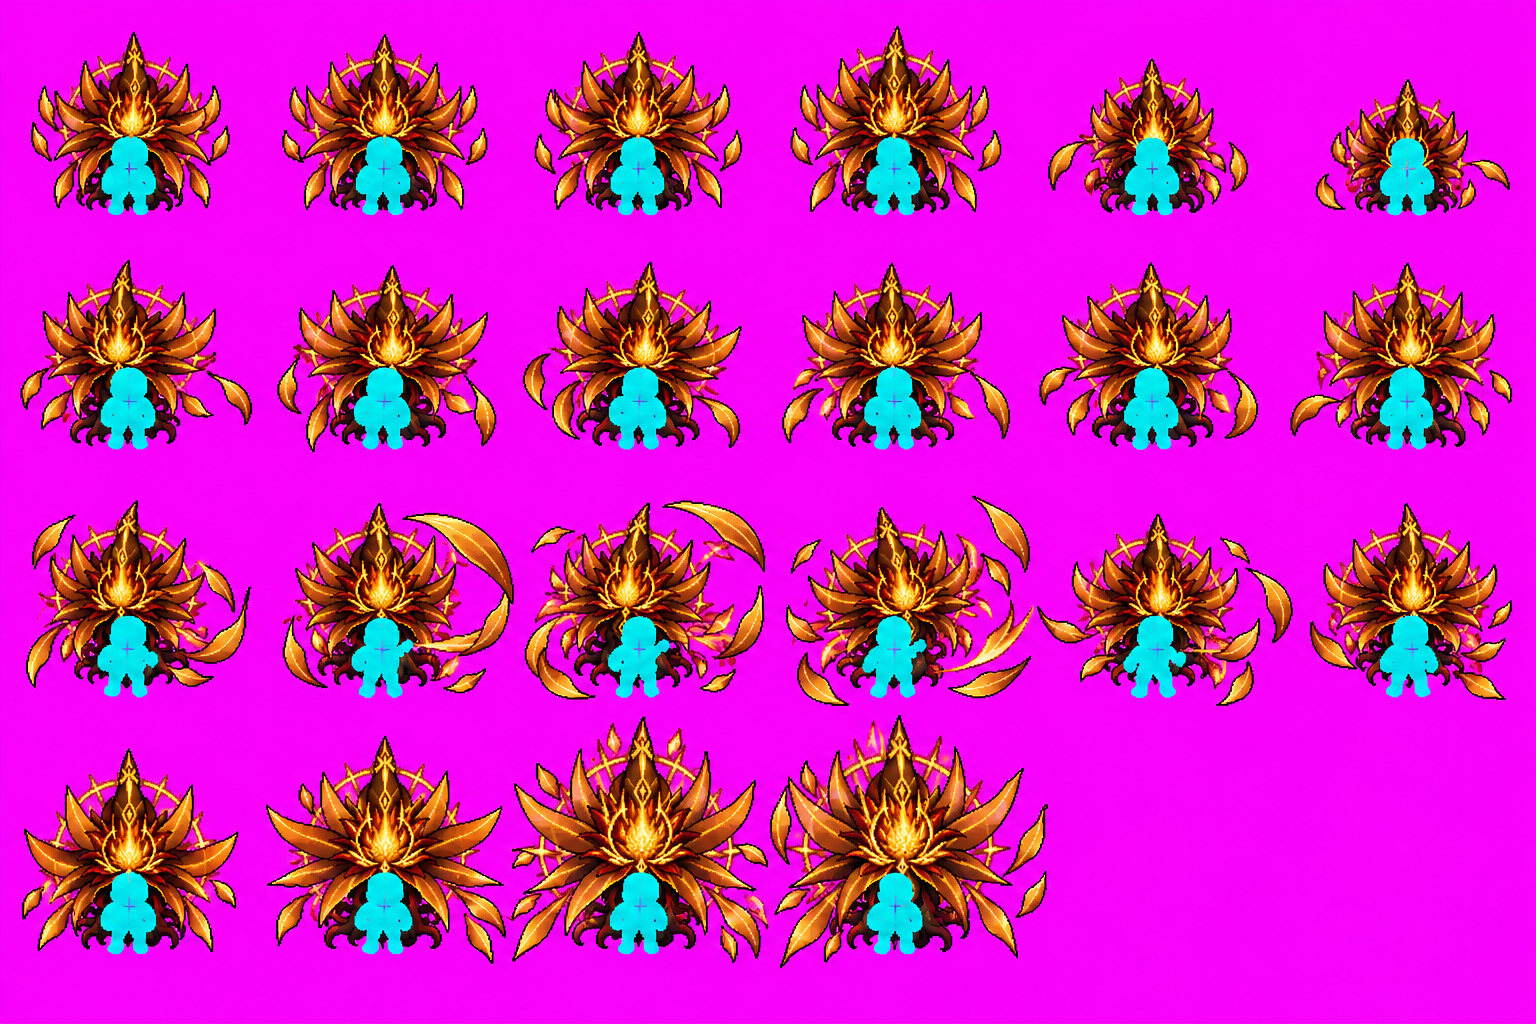
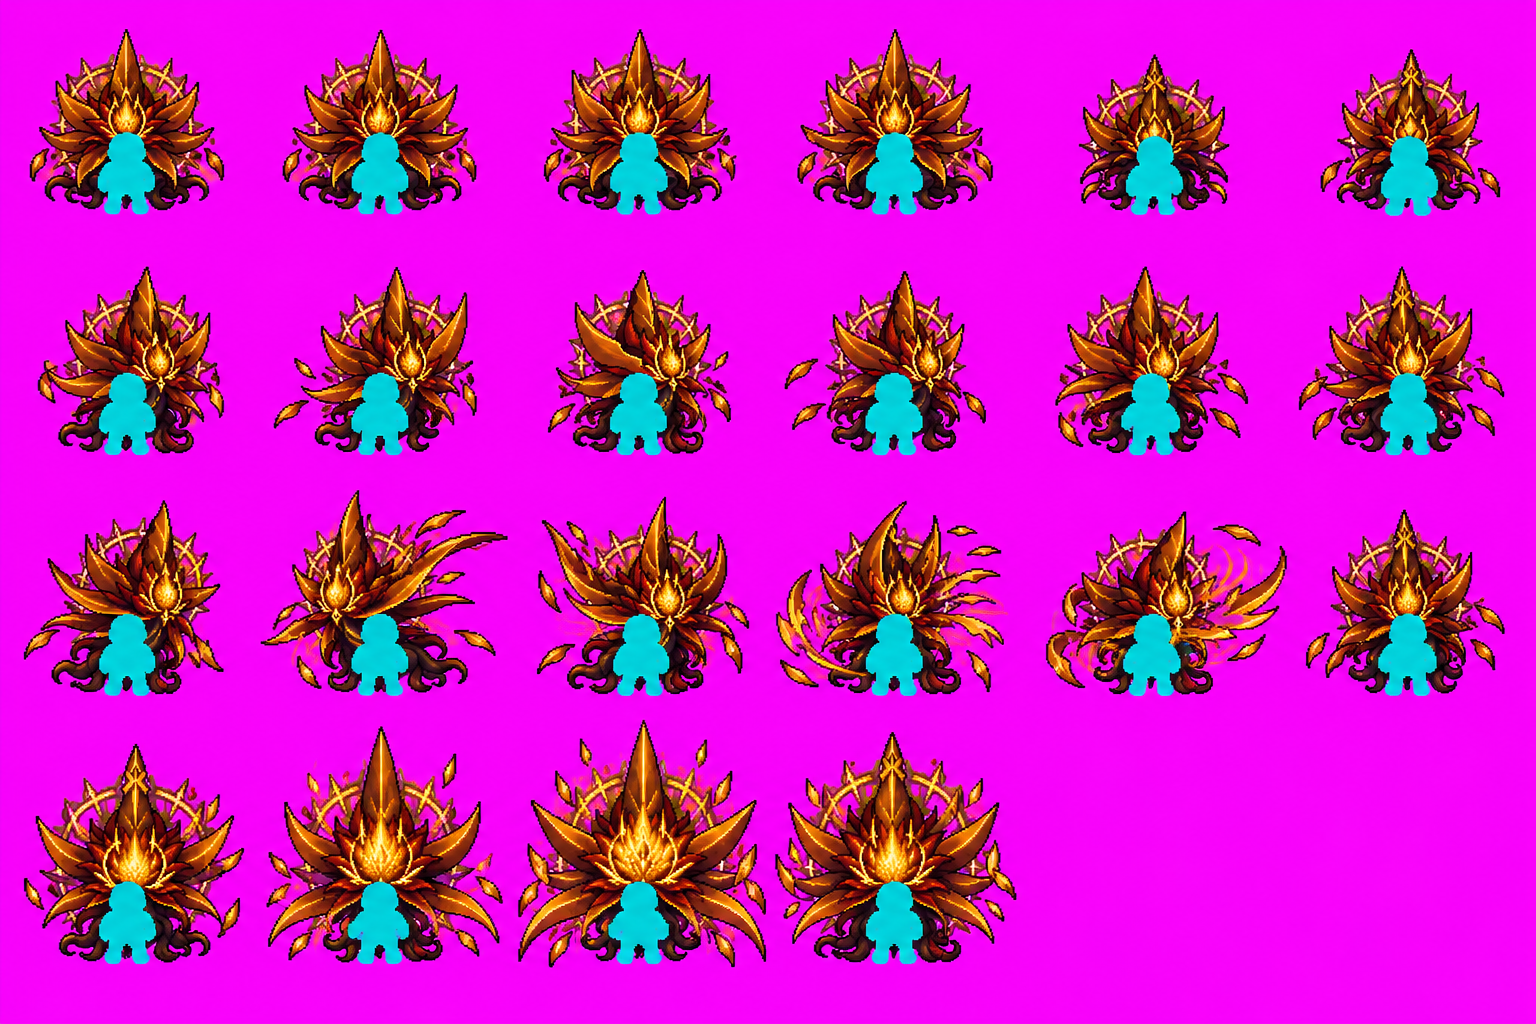
art(ky_nhung_thong_thien_cuc): bổ sung hoạt ảnh hướng bắc (#1025)

diff --git a/art/src/phuthe-anim/ky_nhung_thong_thien_cuc/NGUON.md b/art/src/phuthe-anim/ky_nhung_thong_thien_cuc/NGUON.md
@@ -16,9 +16,9 @@ Part of #1025 · lô 5 · worker soul_land_game-716.
 | B / se | 3 / 3 | 0 | 46 | Được phép theo 0 chặn kỹ thuật |
 | C / e | 2 / 2 | 0 | 47 | Được phép theo 0 chặn kỹ thuật |
 | D / ne | 2 / 2 | 0 | 48 | Được phép theo 0 chặn kỹ thuật |
-| E / n | 3 / 2 | 1 | 1 | Không — giữ ảnh cũ |
+| E / n | 4 / 4 (thêm 1/3 lượt) | 0 | 43 | Đã nhập bổ sung |
 
-Đã nhập A–D (s, se, e, ne), 88 khung bằng cutter --partial → anchor → phuthe-import; E (n) dùng phụ thể tĩnh cũ. Cutter: 0 block, 157 warn; giữ các hạn chế soát mắt bên dưới.
+Đã bổ sung E/n ở lượt 4 (lượt mới 1/3 được chủ repo cho phép ngoài ba lượt cũ), đủ A–E: 110 khung. Cutter: 0 block, 194 warn; nhập bằng phuthe-import, không chỉnh tay neo. Importer giữ mục neo manual hiện có. Lượt E cũ giữ nguyên trong candidates/.
 
 ## Soát mắt và neo
 
@@ -37,7 +37,7 @@ Preview: C:/Users/PC/.ao/data/artifacts/soul_land_game-716/ky_nhung_thong_thien_
 <!-- phuthe-import:huong -->
 ### Hướng đã nhập (tự ghi bởi `phuthe-import.mjs`, `anim.dirsOk` trong manifest)
 
-Nhập từng hướng: s, se, e, ne.
+Đủ 5 hướng.
 
 | Hướng | Trạng thái |
 |---|---|
@@ -45,5 +45,9 @@ Nhập từng hướng: s, se, e, ne.
 | se (tờ B) | đã nhập hoạt ảnh vẽ thật |
 | e (tờ C) | đã nhập hoạt ảnh vẽ thật |
 | ne (tờ D) | đã nhập hoạt ảnh vẽ thật |
-| n (tờ E) | CHƯA nhập: client dùng phụ thể tĩnh cũ |
+| n (tờ E) | đã nhập hoạt ảnh vẽ thật |
 <!-- /phuthe-import:huong -->
+
+## Bổ sung phiên 738
+
+Tờ E mới: 0 chặn / 43 nhẹ. Thân nhỏ và dời xuống; hoa lớn, cast xén mép, hướng bắc chưa chứng nhận quay lưng rõ. Lỗi mắt chỉ khai ở đây theo quyền nhập mọi hướng 0 chặn. Prompt nguyên văn từ công cụ với --concept-ref; tham chiếu bảng E và concept-attempt2. Neo tự tính bằng công cụ; không chỉnh tay sau nhập.
